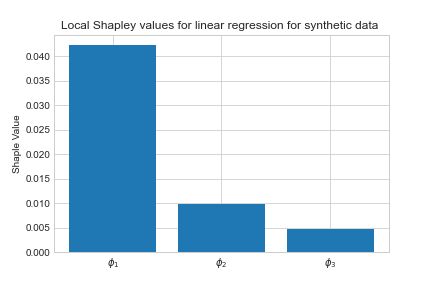
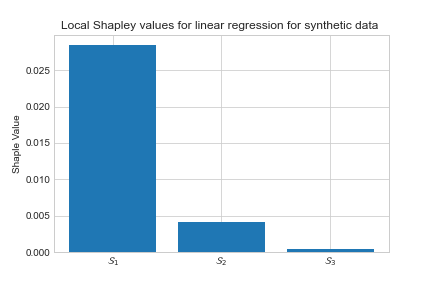
change xlabel

diff --git a/synthetic.py b/synthetic.py
@@ -89,7 +89,7 @@ s = g.coef_ * (np.array([10, 10, 10]) - np.mean(full).values)
 # %%
 plt.title("Local Shapley values for linear regression for synthetic data ")
 plt.ylabel("Shaple Value")
-plt.bar(["$\phi_1$", "$\phi_2$", "$\phi_3$"], s)
+plt.bar(["$\mathcal{S}_1$", "$\mathcal{S}_2$", "$\mathcal{S}_3$"], s)
 plt.savefig("experiments/results/analytical.png")
 plt.show()
 
